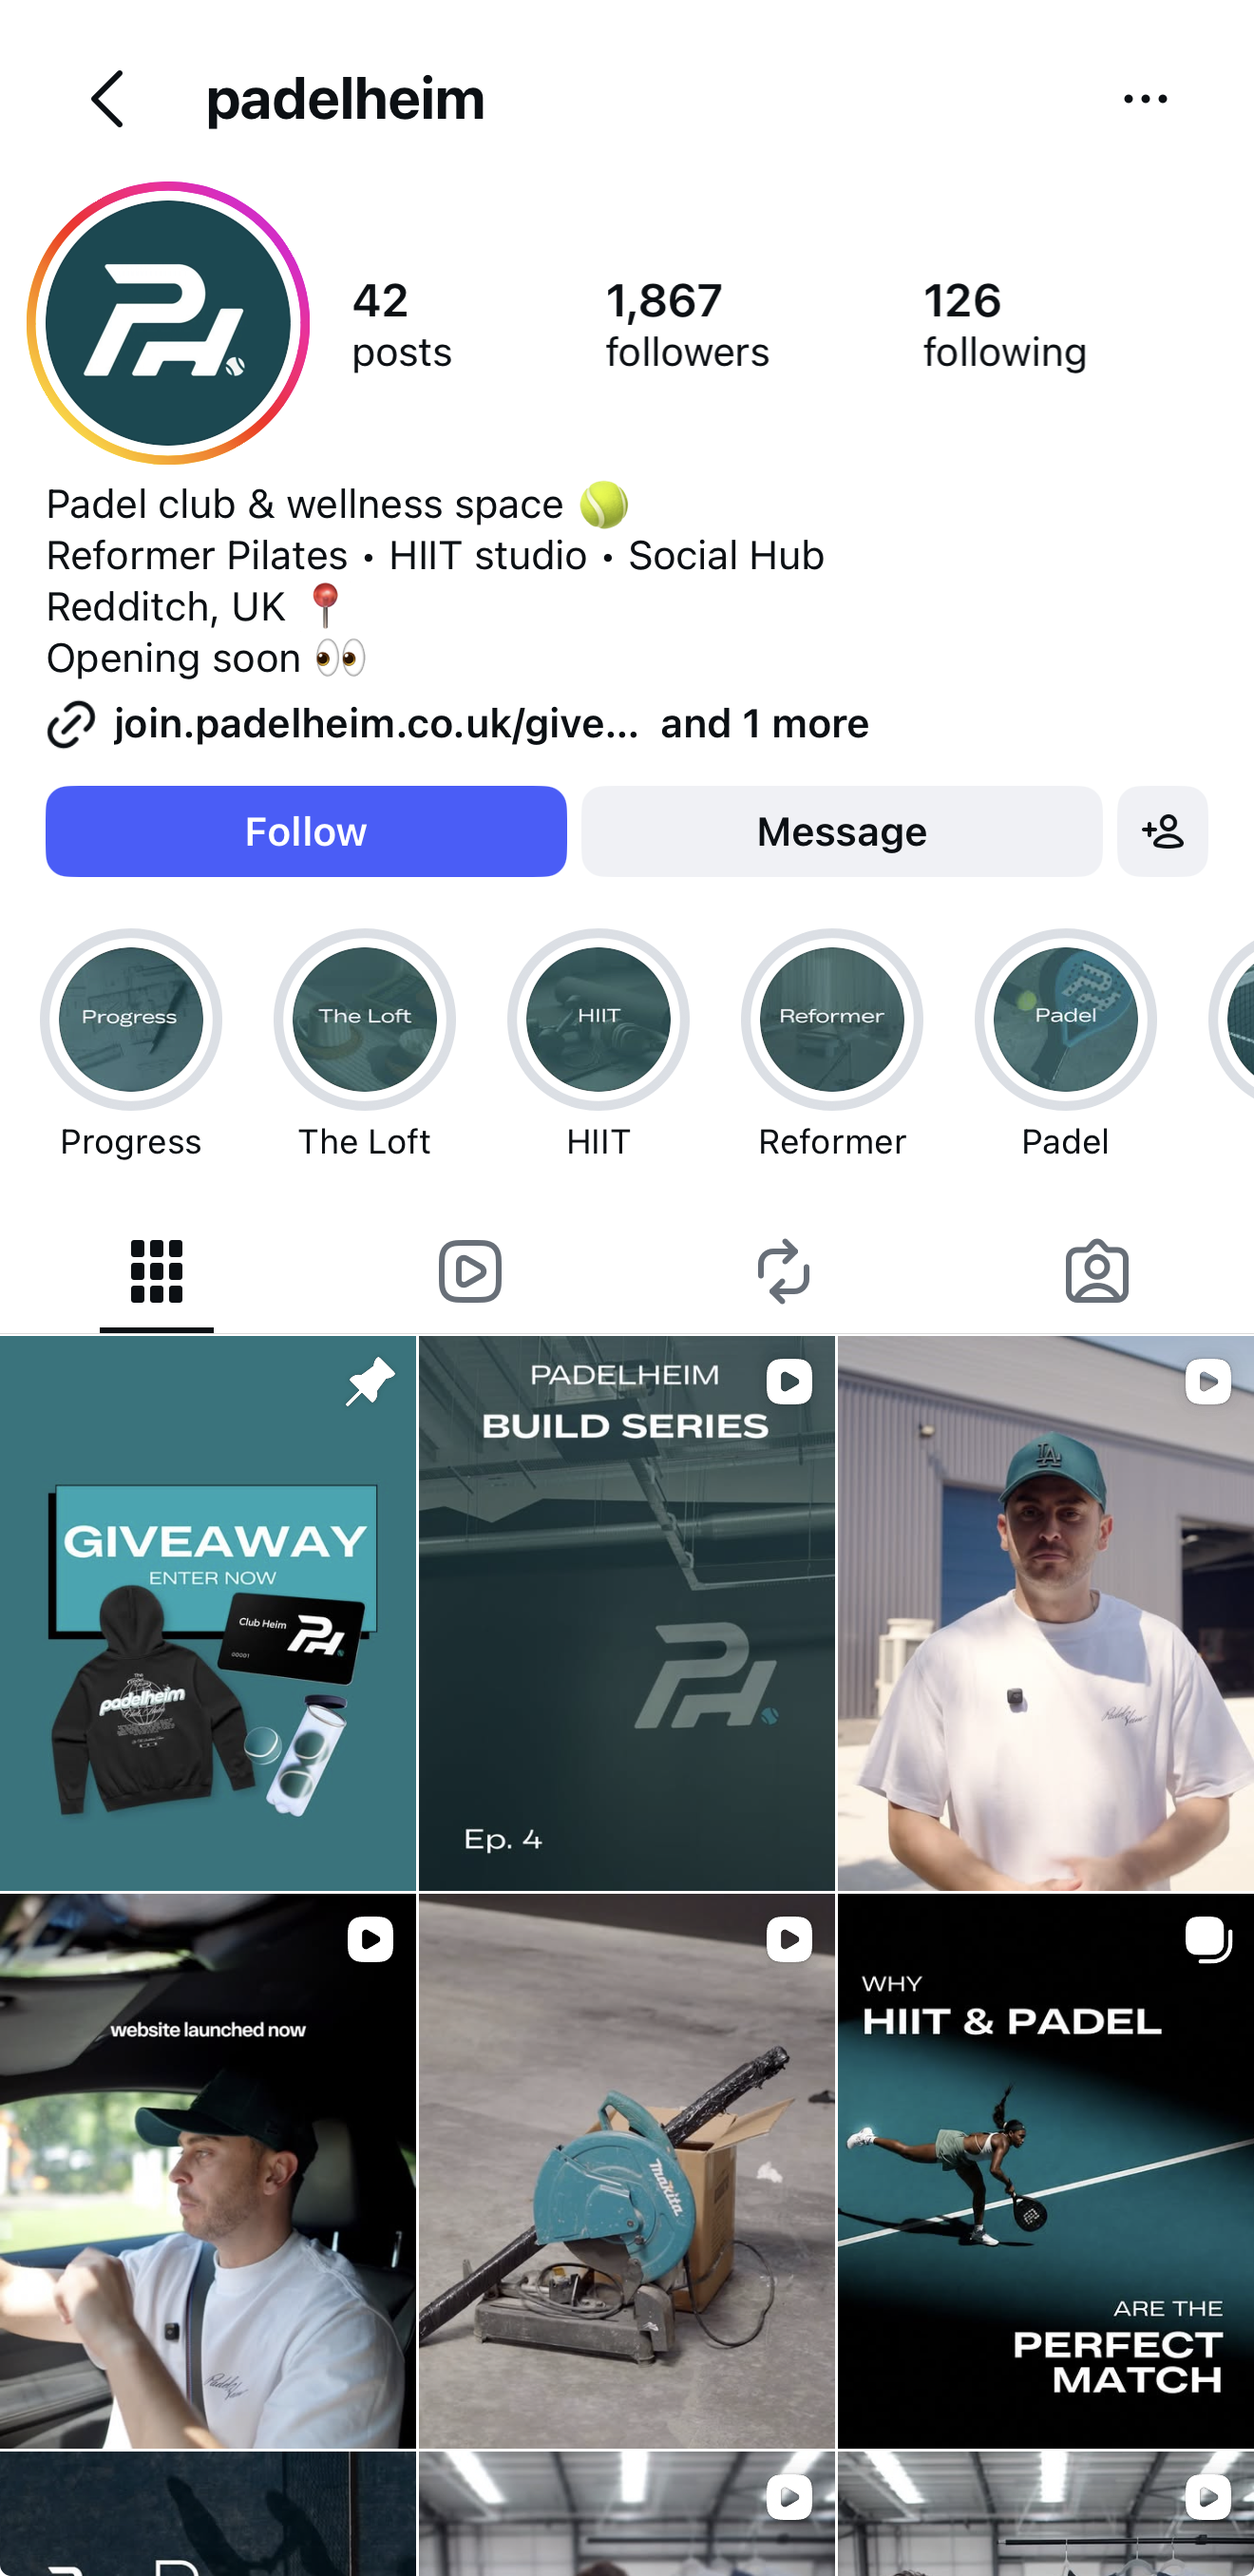
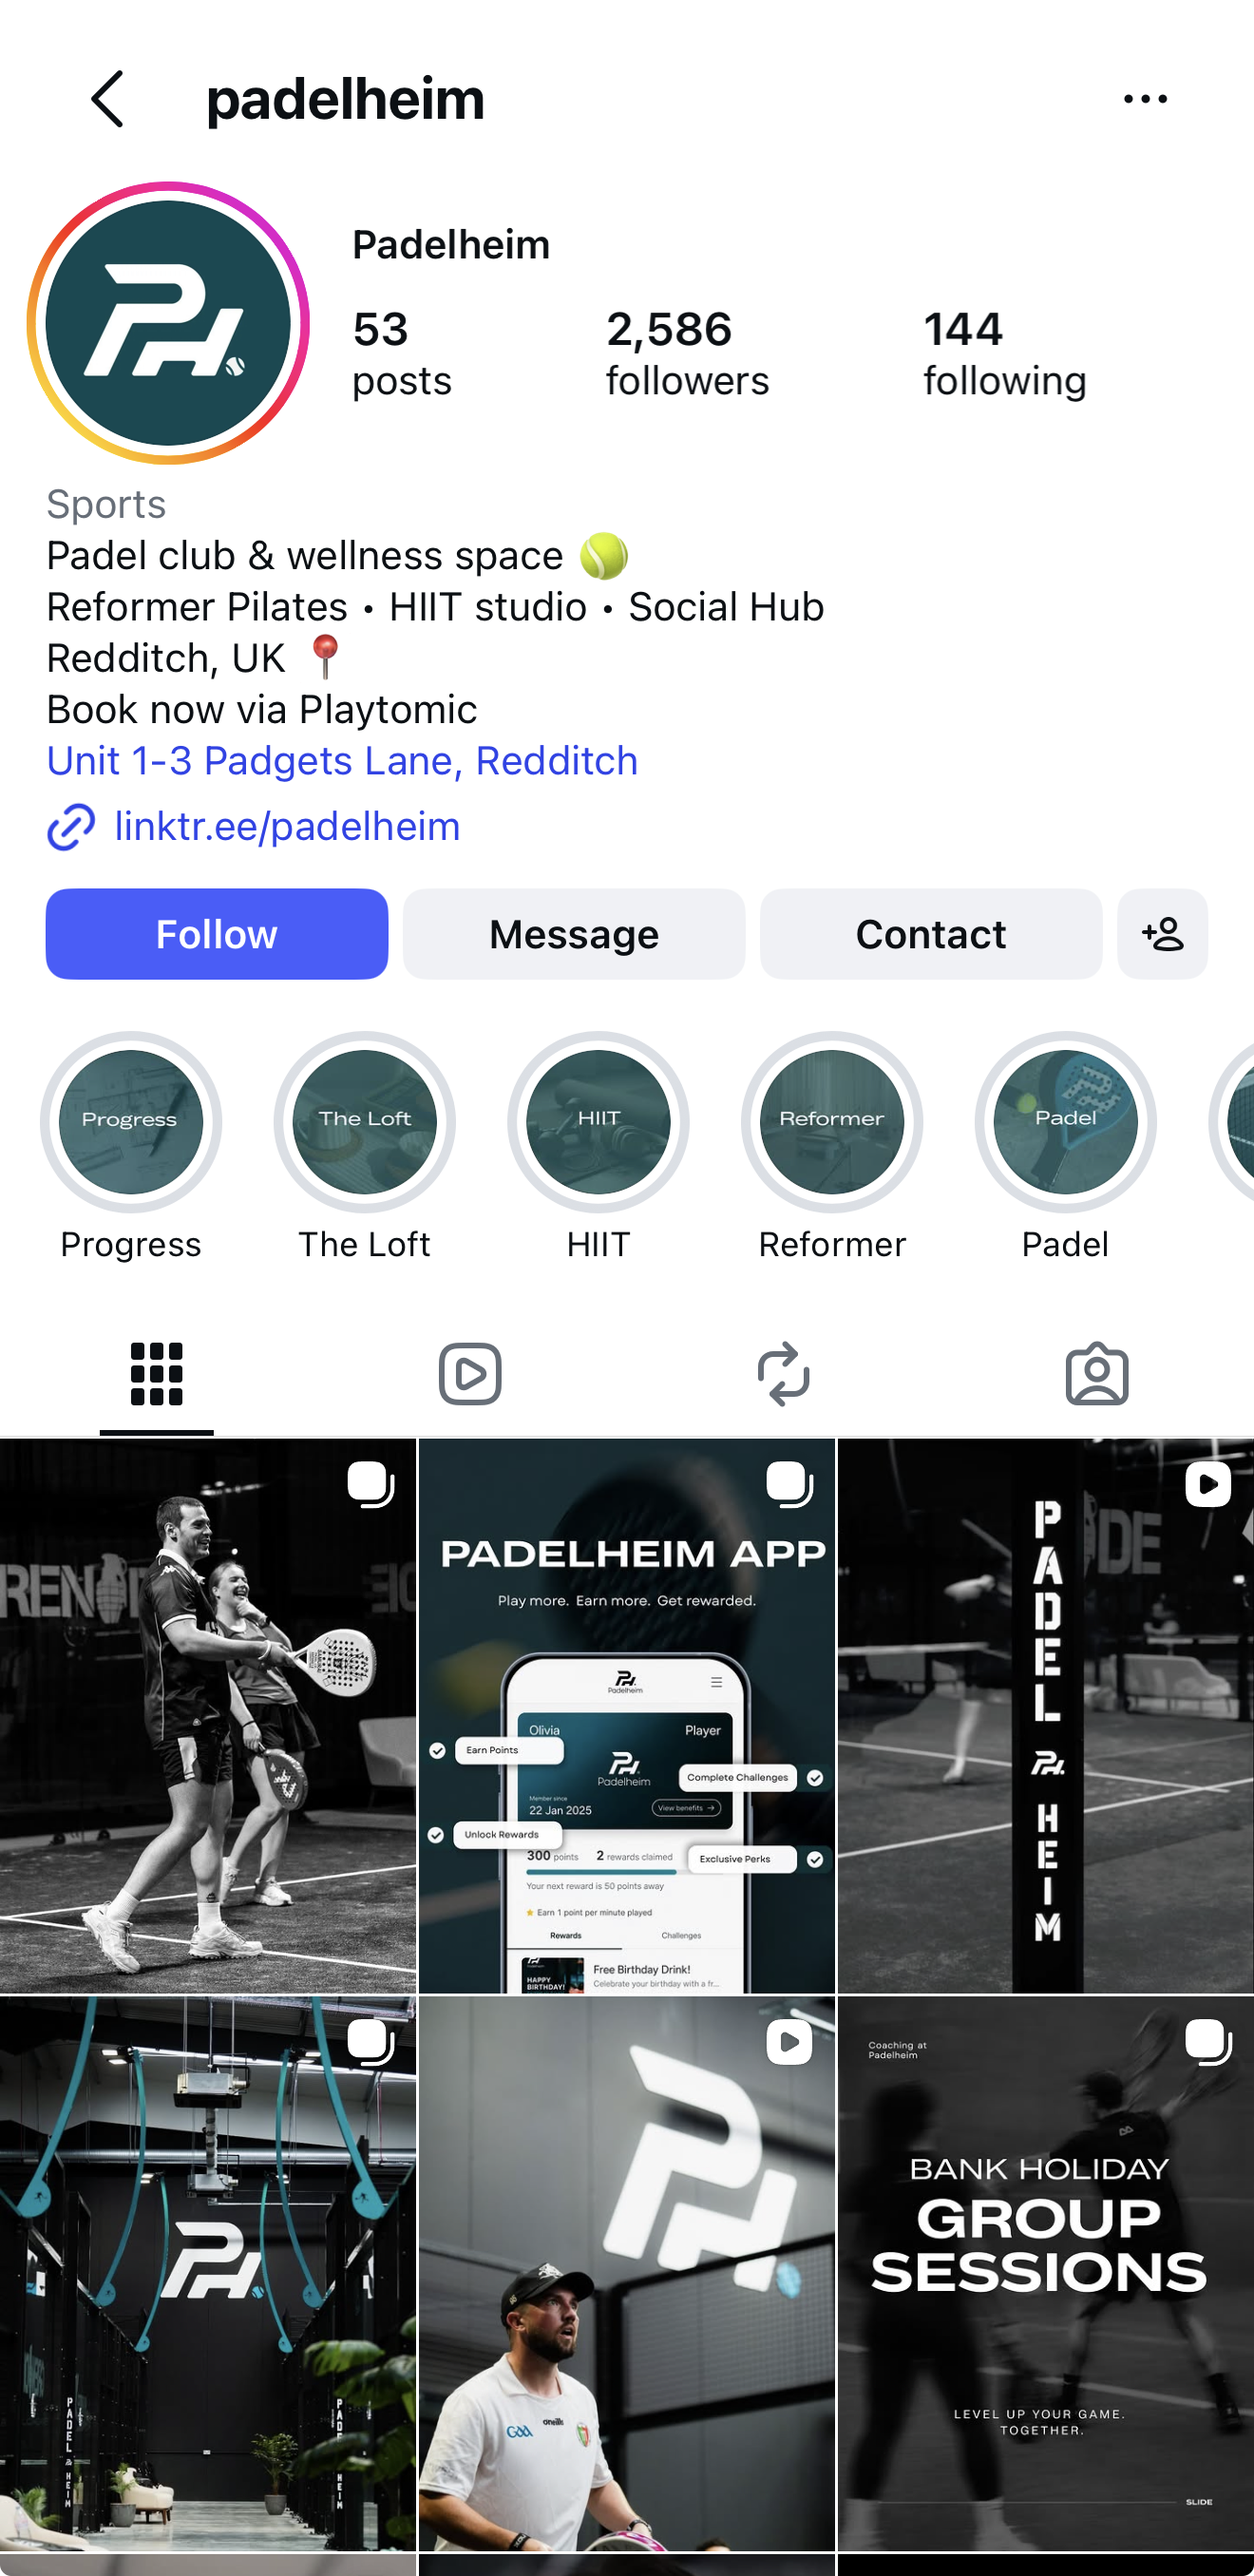
Add files via upload

diff --git a/index.html b/index.html
@@ -536,7 +536,7 @@ footer{border-top:1px solid var(--border);padding:40px 48px;display:flex;justify
             <p class="csub">We built Padelheim from scratch. With just £352 spent on ads, one giveaway turned a brand new page into a list of real people ready to buy. Not just followers for the sake of it, actual customers waiting to sign up.</p>
             <div class="stat-grid">
                 <div class="stat"><div class="sv">£352</div><div class="sl">Spent on ads</div></div>
-                <div class="stat"><div class="sv">16x</div><div class="sl">Follower growth, 113 to 1,833</div></div>
+                <div class="stat"><div class="sv">23x</div><div class="sl">Follower growth, 113 to 2,586</div></div>
                 <div class="stat"><div class="sv">261</div><div class="sl">People ready to buy</div></div>
                 <div class="stat"><div class="sv">£544k+</div><div class="sl">Possible sales in a year</div></div>
             </div>
